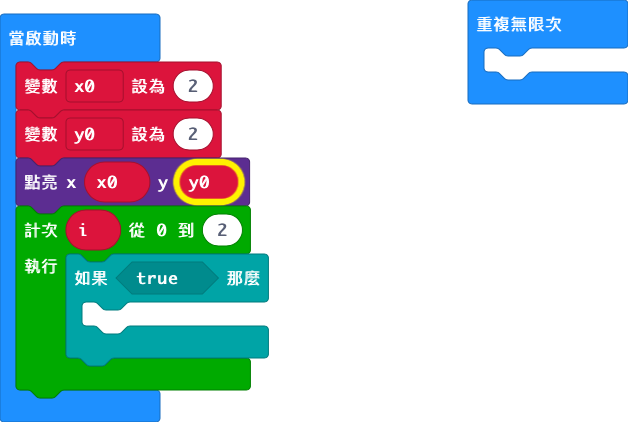
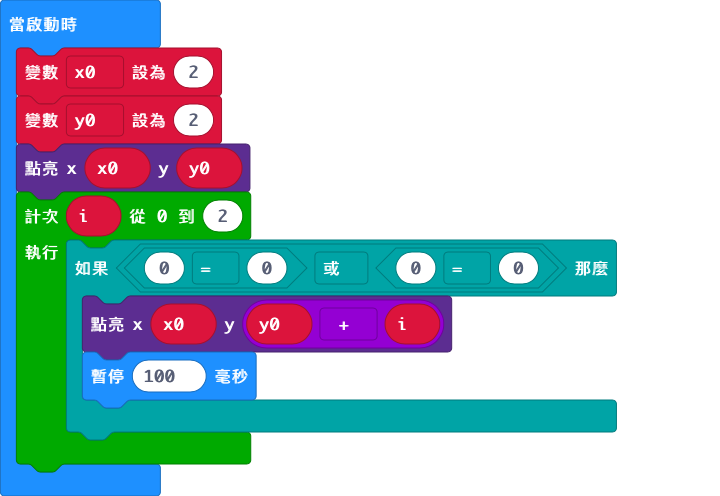
Update main.blocks, main.ts

diff --git a/main.ts b/main.ts
@@ -2,10 +2,8 @@ let x0 = 2
 let y0 = 2
 led.plot(x0, y0)
 for (let i = 0; i <= 2; i++) {
-    if (true) {
-    	
+    if (0 == 0 || 0 == 0) {
+        led.plot(x0, y0 + i)
+        basic.pause(100)
     }
 }
-basic.forever(function () {
-	
-})
